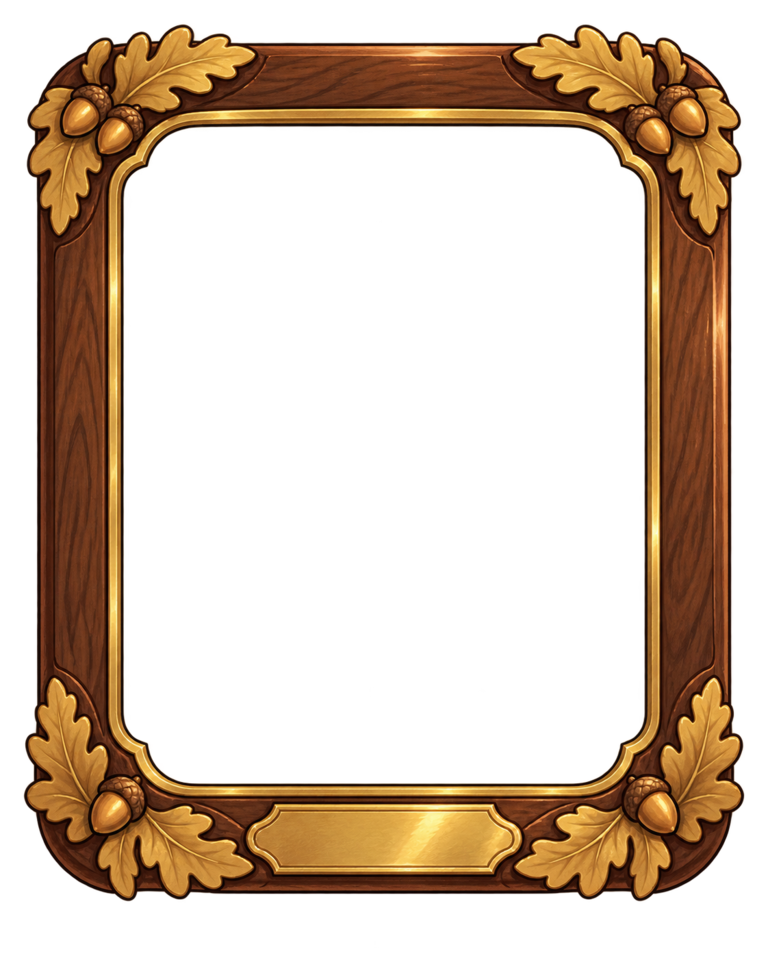
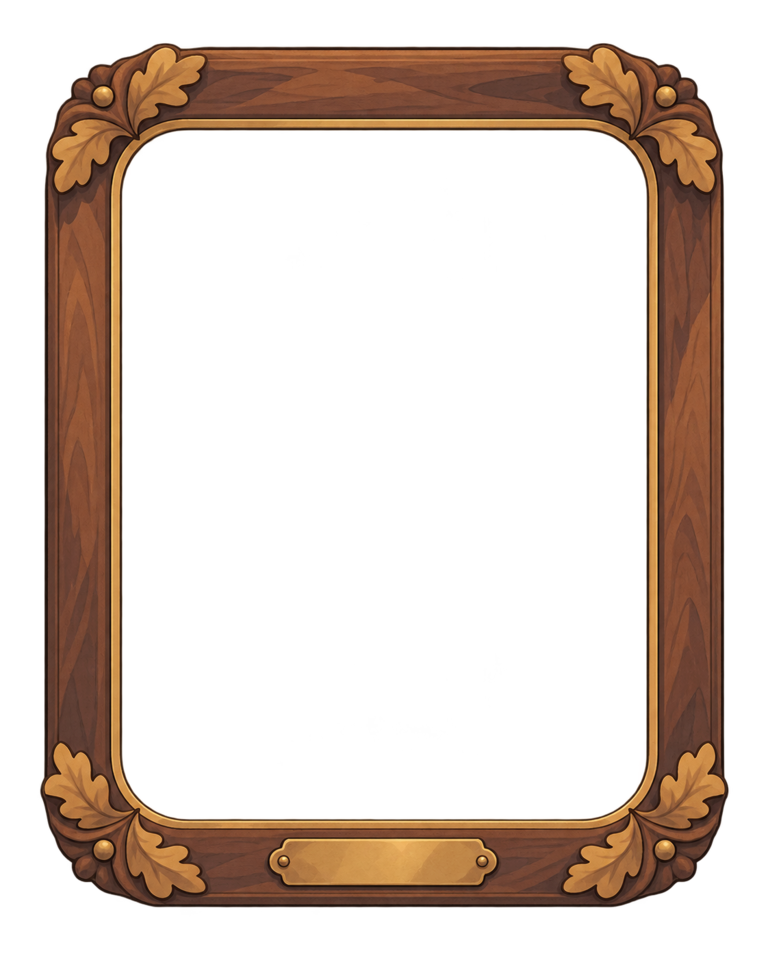
Complete reference-style class emblems and redraw frame and badge

Changed region(s): [[0.0312, 0.0, 0.9688, 0.9688]]

diff --git a/art/REVIEW.md b/art/REVIEW.md
@@ -1,41 +1,7 @@
-# Current direction: Part 00B
+# Current art direction
 
-Updated MASTER.md at1f95e4f supersedes earlier class-emblem and ornament approvals. All13 class emblems are being redrawn at art/batch/emblems/class/ using art-tasks/ref/emblem-reference.png as their sole drawing-style reference; seven ornaments are being replaced in the same anime-prop style. Earlier class-emblem variants are superseded. Completion paths are recorded in PROGRESS.md without quality annotations.
+Following MASTER.md at9feda5c: TRAGIC BUT WARM. Scenes, portraits and vignettes carry grief and bodily wounds with amber, ember, gold, rose and warm brown light, plus a moment of human kindness. No cold blue-grey gloom.
 
-# Part 00: updated WOW review
+Emblems, icons, ornaments and UI are explicitly exempt: retain the approved bright warm Part00B anime prop style, with no blood, ash or damage added. The ten already-pushed Part00B class emblems remain unchanged; the remaining three and seven ornaments will follow the supplied lute reference. The cancelled dark emblem candidates were never saved to the repository.
 
-Supersedes the prior worn-prop review. Source: updated art-tasks/MASTER.md at e44fece. Bold, epic, polished 2D painted fantasy art is the approved direction. KEEP means use the original on art-g0 or art-style-test; it does not endorse an earlier worn replacement. REDO completion is tracked in PROGRESS.md.
-
-art/g0/badge-level.png | REDO | Premium richer carving and inlay with an empty center.
-art/g0/corner-metal.png | KEEP | Approved original retained under updated PART 00; no redo requested.
-art/g0/corner-vine.png | KEEP | Approved original retained under updated PART 00; no redo requested.
-art/g0/crest-app.png | KEEP | Approved original retained under updated PART 00; no redo requested.
-art/g0/divider-wood.png | REDO | Richer carved wood and inlay, substantial but clean.
-art/g0/emblem-artificer.png | KEEP | Approved original retained under updated PART 00; no redo requested.
-art/g0/emblem-barbarian.png | KEEP | Approved original retained under updated PART 00; no redo requested.
-art/g0/emblem-cleric.png | REDO | Radiant mace and sun disc with dramatic power; remove ribbons and lilies.
-art/g0/emblem-druid.png | KEEP | Approved original retained under updated PART 00; no redo requested.
-art/g0/emblem-fighter.png | KEEP | Approved original retained under updated PART 00; no redo requested.
-art/g0/emblem-monk.png | KEEP | Approved original retained under updated PART 00; no redo requested.
-art/g0/emblem-paladin.png | REDO | A dramatic holy oath blade rather than generic winged sword.
-art/g0/emblem-ranger.png | KEEP | Approved original retained under updated PART 00; no redo requested.
-art/g0/emblem-rogue.png | KEEP | Approved original retained under updated PART 00; no redo requested.
-art/g0/emblem-sorcerer.png | KEEP | Approved original retained under updated PART 00; no redo requested.
-art/g0/emblem-warlock.png | REDO | A specific menacing eldritch pact object.
-art/g0/emblem-wizard.png | REDO | A living spellbook pouring spell energy; no generic star as the whole idea.
-art/g0/frame-portrait.png | REDO | Premium richer purposeful carving and inlay with a clear transparent opening.
-art/g0/gnome-foreground-fade.png | KEEP | Approved original retained under updated PART 00; no redo requested.
-art/g0/home-inn-pc.png | KEEP | Approved original retained under updated PART 00; no redo requested.
-art/g0/home-inn-phone.png | REDO | All characters and busy detail in upper45%; calm lower55%.
-art/g0/texture-paper-cool.png | KEEP | Approved original retained under updated PART 00; no redo requested.
-art/g0/texture-paper-neutral.png | KEEP | Approved original retained under updated PART 00; no redo requested.
-art/g0/wipe-mask-vertical.png | KEEP | Approved original retained under updated PART 00; no redo requested.
-art/style-test/bard-emblem.png | REDO | Epic magical lute bursting with music, without random ribbon.
-art/style-test/corner-wood.png | KEEP | Approved original retained under updated PART 00; no redo requested.
-art/style-test/gnome-foreground.png | KEEP | Approved original retained under updated PART 00; no redo requested.
-art/style-test/gnome-scene-pc.png | KEEP | Approved original retained under updated PART 00; no redo requested.
-art/style-test/gnome-scene-phone.png | REDO | All characters and busy detail in upper45%; calm lower55%.
-art/style-test/texture-paper-warm.png | KEEP | Approved original retained under updated PART 00; no redo requested.
-art/style-test/wipe-mask.png | KEEP | Approved original retained under updated PART 00; no redo requested.
-
-Updated PART 00 completed: all ten listed WOW replacements are saved at their required paths and sizes; transparency checked where required. Phone layouts were recomposed for a calm lower55%. Eight worn replacements were removed, including the four additional removals explicitly approved in chat.
+Part00C requires replacement of all26 class scenes at their original paths. Previous cheerful scenes are omitted from PROGRESS.md until replaced; their old versions remain in Git history. Newly generated cheerful Artificer-phone and species candidates are paused and will not be saved. PROGRESS.md contains plain completed file paths only.

diff --git a/art/PROGRESS.md b/art/PROGRESS.md
@@ -2,37 +2,9 @@ art/batch/g0/emblem-cleric.png
 art/batch/g0/emblem-paladin.png
 art/batch/g0/emblem-wizard.png
 art/batch/g0/emblem-warlock.png
-art/batch/g0/frame-portrait.png
-art/batch/g0/badge-level.png
-art/batch/g0/divider-wood.png
 art/batch/style-test/bard-emblem.png
 art/batch/g0/home-inn-phone.png
 art/batch/style-test/gnome-scene-phone.png
-art/batch/scenes/class/barbarian-pc.png
-art/batch/scenes/class/barbarian-phone.png
-art/batch/scenes/class/bard-pc.png
-art/batch/scenes/class/bard-phone.png
-art/batch/scenes/class/cleric-pc.png
-art/batch/scenes/class/cleric-phone.png
-art/batch/scenes/class/druid-pc.png
-art/batch/scenes/class/druid-phone.png
-art/batch/scenes/class/fighter-pc.png
-art/batch/scenes/class/fighter-phone.png
-art/batch/scenes/class/monk-pc.png
-art/batch/scenes/class/monk-phone.png
-art/batch/scenes/class/paladin-pc.png
-art/batch/scenes/class/paladin-phone.png
-art/batch/scenes/class/ranger-pc.png
-art/batch/scenes/class/ranger-phone.png
-art/batch/scenes/class/rogue-pc.png
-art/batch/scenes/class/rogue-phone.png
-art/batch/scenes/class/sorcerer-pc.png
-art/batch/scenes/class/sorcerer-phone.png
-art/batch/scenes/class/warlock-pc.png
-art/batch/scenes/class/warlock-phone.png
-art/batch/scenes/class/wizard-pc.png
-art/batch/scenes/class/wizard-phone.png
-art/batch/scenes/class/artificer-pc.png
 art/batch/emblems/class/barbarian.png
 art/batch/emblems/class/bard.png
 art/batch/emblems/class/cleric.png
@@ -43,3 +15,8 @@ art/batch/emblems/class/paladin.png
 art/batch/emblems/class/ranger.png
 art/batch/emblems/class/rogue.png
 art/batch/emblems/class/sorcerer.png
+art/batch/emblems/class/warlock.png
+art/batch/emblems/class/wizard.png
+art/batch/emblems/class/artificer.png
+art/batch/g0/frame-portrait.png
+art/batch/g0/badge-level.png
